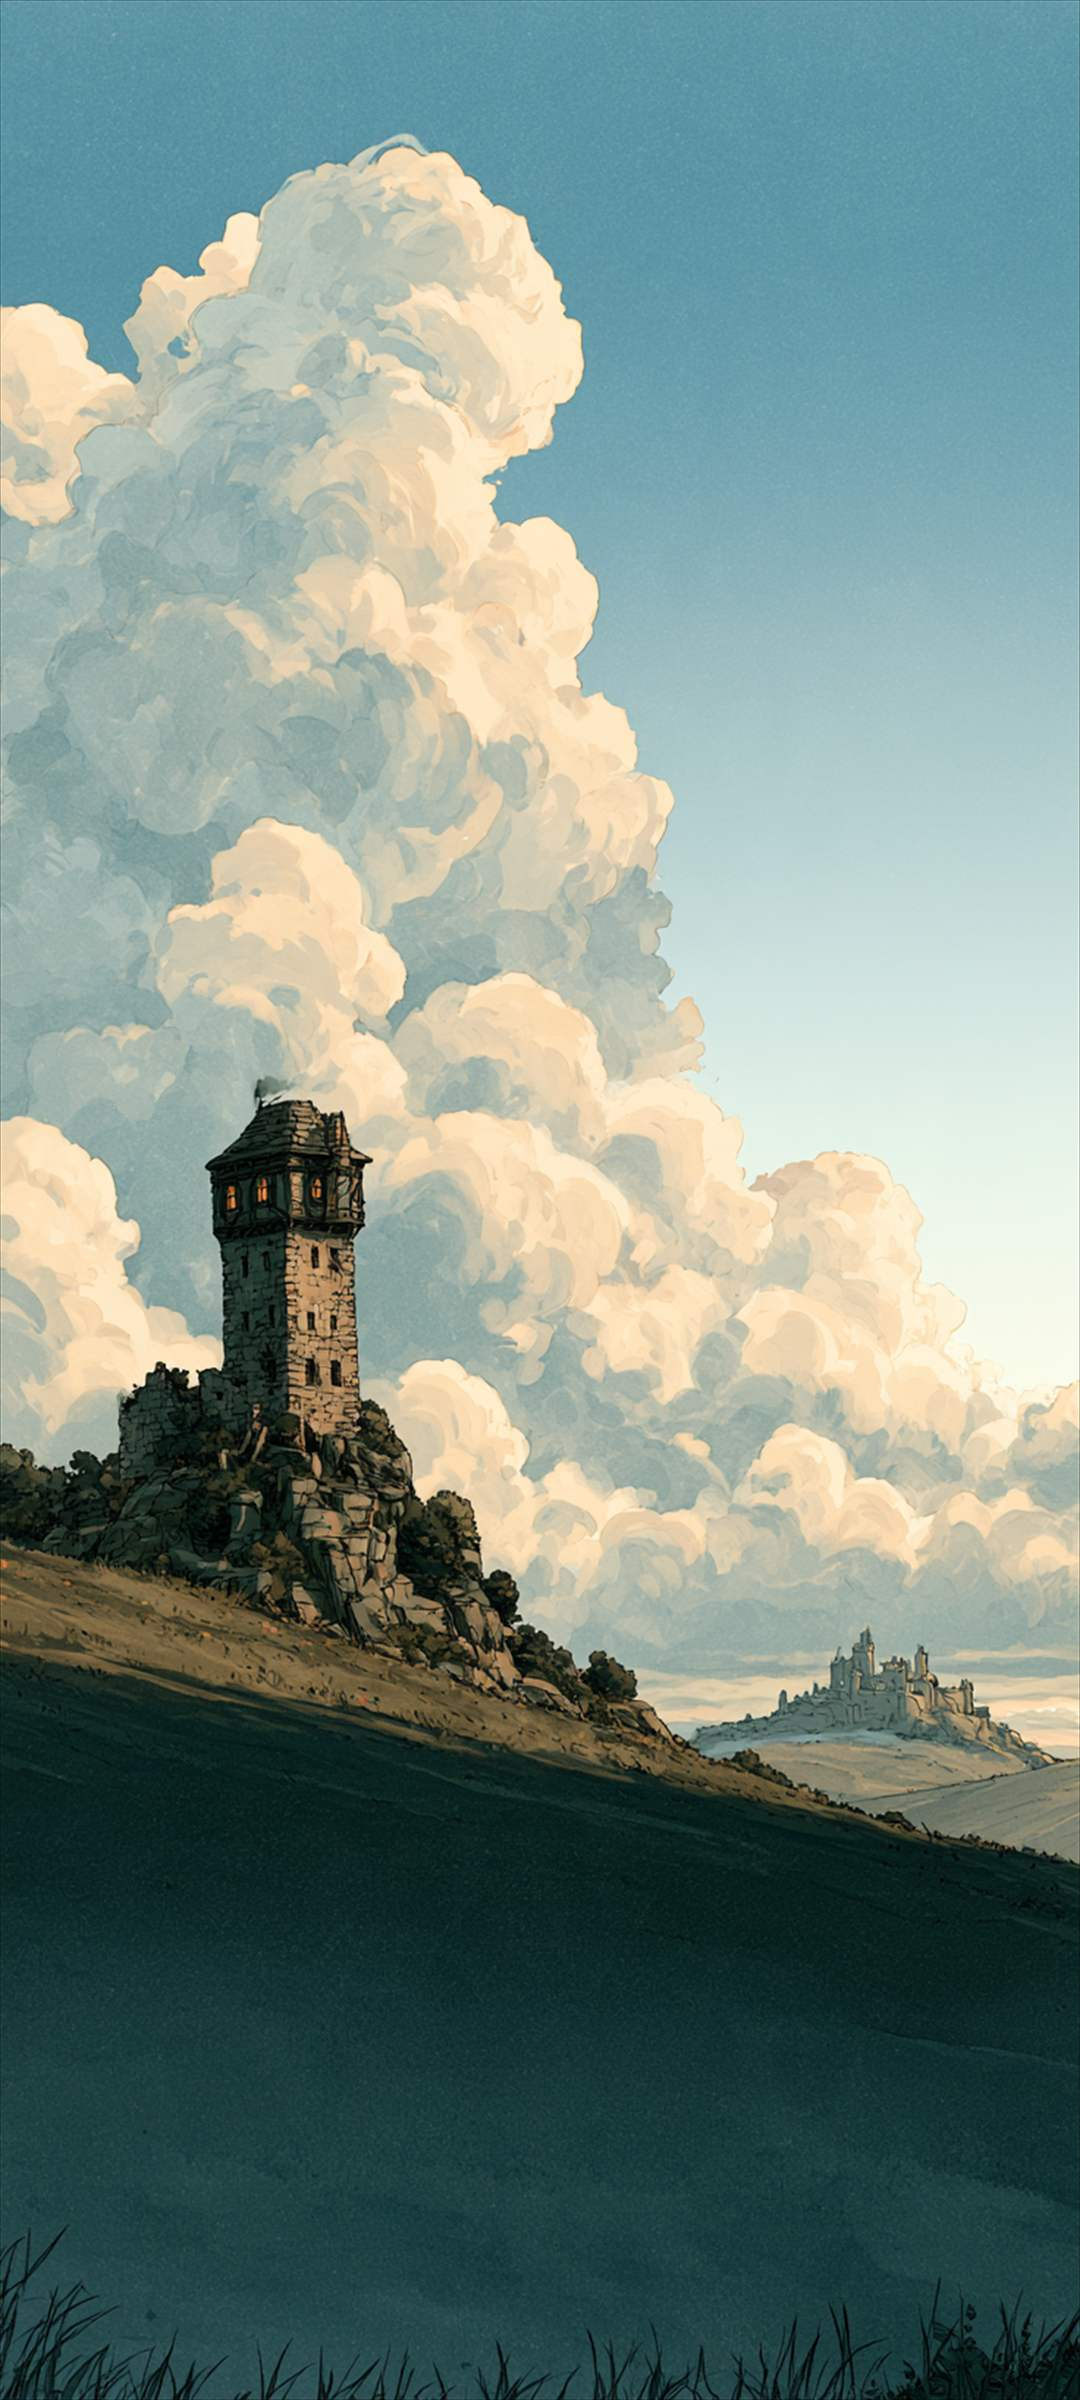
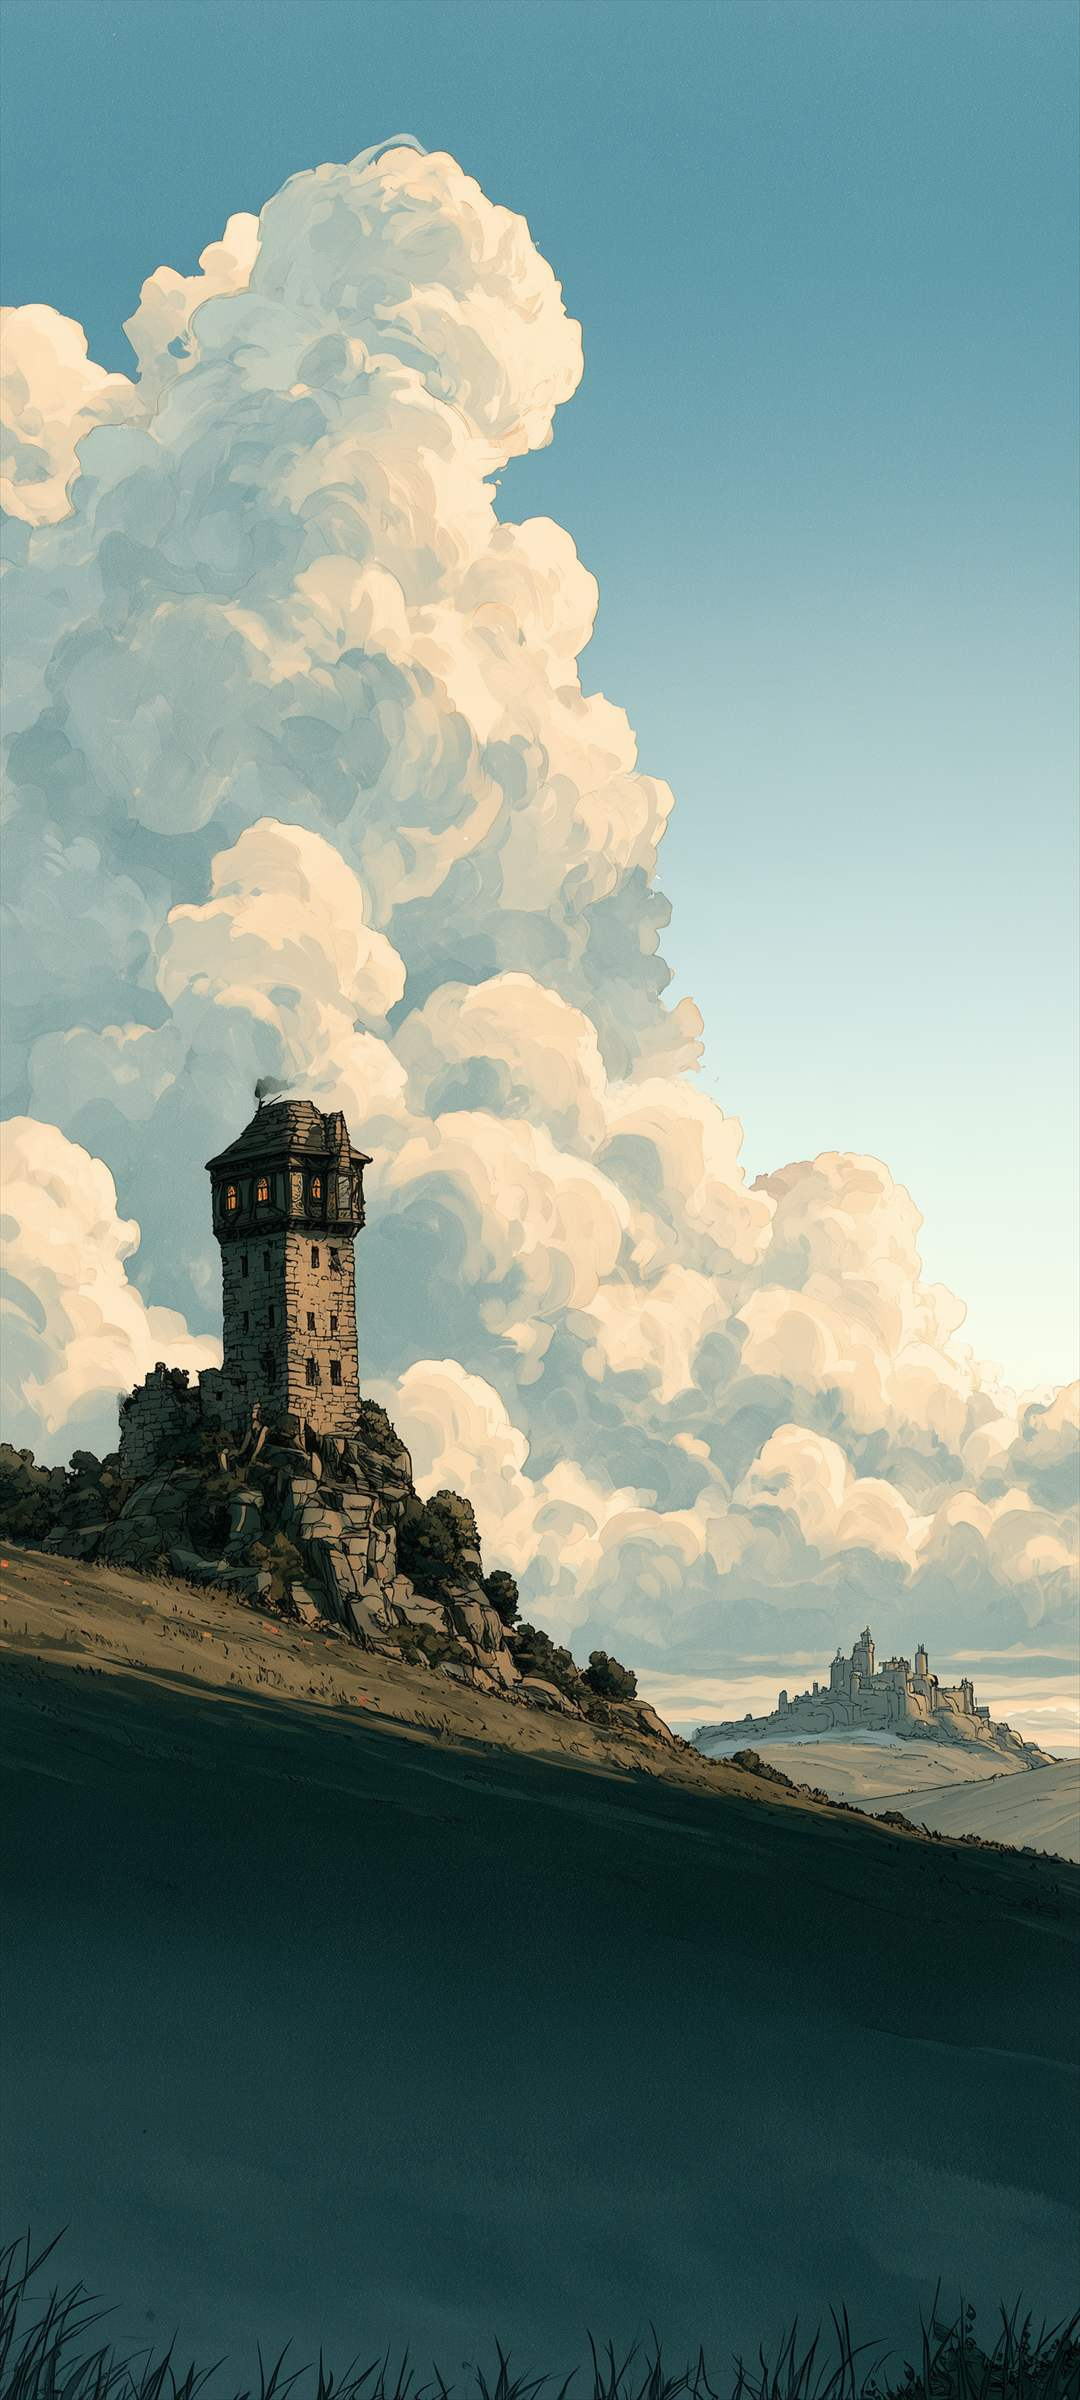
feat: upscaled day background, staged splash and skin assets; UI-008 prompt fix; WIP

diff --git a/icons-and-imagery/art-queue.md b/icons-and-imagery/art-queue.md
@@ -153,7 +153,7 @@ Shared negative prompt for these jobs is in [UI-KIT-BRIEF.md](UI-KIT-BRIEF.md#sh
 
 - [ ] **UI-008: Wide blank buttons, 3 styles by 3 states** (UI-KIT-BRIEF.md, UI-008). Target: 1440x480 `ui-wide-button-sheet.png`, transparent, `--ar 3:1`; 3x3 grid of 480x160 cells, each button 480x120 centred; 9-slice caps 40 px left and right, 30 px top and bottom. Credit cost: UNVERIFIED.
   > #UI-008 wide blank buttons, 3 styles by 3 states
-  > Hand-painted pastoral fantasy set of wide blank buttons in watercolor and gouache on a fixed 3 by 3 grid: each row holds three wide rounded-rectangle buttons with clean expressive ink outlines, soft wash fills and a thin Aged Bronze bevel edge. Columns left to right: primary in Ember orange, secondary in Aged Bronze wash with slate, danger in muted Rust. Rows top to bottom: normal, pressed (slightly darker, inset bevel), disabled (desaturated, flat, pale vellum). Each button has a flat, even, empty centre, with tiny hawthorn berry studs at the four corners only. Even spacing, symmetric, transparent background around each button. Original design. --ar 3:1 --no text, letters, words, logo, watermark, signature, figures, people, faces, flame, dragon scales, glow, gloss, shadows, photorealistic, 3d render, lens flare
+  > Hand-painted pastoral fantasy sheet of exactly nine wide blank rounded-rectangle buttons, in watercolor and gouache with clean ink outlines, soft wash fills and a thin Aged Bronze bevel edge, laid out in exactly three rows and three columns with even gaps on a plain background. Row 1, normal: Ember orange, Aged Bronze with slate wash, muted Rust. Row 2, pressed: the same three colours slightly darker with an inset bevel. Row 3, disabled: the same three shapes in desaturated flat pale vellum. All nine buttons are identical in size and shape, each with a flat, even, empty centre and tiny hawthorn berry studs at the four corners only. Symmetric, straight-on. Original design. --ar 3:1 --no text, letters, words, logo, watermark, signature, figures, people, faces, flame, dragon scales, glow, gloss, shadows, six buttons, two rows, photorealistic, 3d render, lens flare
 
 - [ ] **UI-009: Splash lantern, 8-frame flicker sheet** (UI-KIT-BRIEF.md, UI-009). Target: 2048x256 `ui-splash-lantern-sheet.png`, transparent, `--ar 8:1`; eight 256x256 frames, left to right; loops frame 8 to frame 1. Credit cost: UNVERIFIED.
   > #UI-009 splash lantern, 8-frame flicker sheet

diff --git a/icons-and-imagery/UI-KIT-BRIEF.md b/icons-and-imagery/UI-KIT-BRIEF.md
@@ -138,7 +138,7 @@ Blank ornate horizontal nameplate banner in hand-painted watercolor and gouache:
 
 ```text
 #UI-008 wide blank buttons, 3 styles by 3 states
-Hand-painted pastoral fantasy set of wide blank buttons in watercolor and gouache on a fixed 3 by 3 grid: each row holds three wide rounded-rectangle buttons with clean expressive ink outlines, soft wash fills and a thin Aged Bronze bevel edge. Columns left to right: primary in Ember orange, secondary in Aged Bronze wash with slate, danger in muted Rust. Rows top to bottom: normal, pressed (slightly darker, inset bevel), disabled (desaturated, flat, pale vellum). Each button has a flat, even, empty centre, with tiny hawthorn berry studs at the four corners only. Even spacing, symmetric, transparent background around each button. Original design. --ar 3:1 --no text, letters, words, logo, watermark, signature, figures, people, faces, flame, dragon scales, glow, gloss, shadows, photorealistic, 3d render, lens flare
+Hand-painted pastoral fantasy sheet of exactly nine wide blank rounded-rectangle buttons, in watercolor and gouache with clean ink outlines, soft wash fills and a thin Aged Bronze bevel edge, laid out in exactly three rows and three columns with even gaps on a plain background. Row 1, normal: Ember orange, Aged Bronze with slate wash, muted Rust. Row 2, pressed: the same three colours slightly darker with an inset bevel. Row 3, disabled: the same three shapes in desaturated flat pale vellum. All nine buttons are identical in size and shape, each with a flat, even, empty centre and tiny hawthorn berry studs at the four corners only. Symmetric, straight-on. Original design. --ar 3:1 --no text, letters, words, logo, watermark, signature, figures, people, faces, flame, dragon scales, glow, gloss, shadows, six buttons, two rows, photorealistic, 3d render, lens flare
 ```
 
 ### UI-009: Splash lantern, 8-frame flicker sheet

diff --git a/icons-and-imagery/prompts-copy-paste.md b/icons-and-imagery/prompts-copy-paste.md
@@ -387,7 +387,7 @@ Target: 1440x480 `ui-wide-button-sheet.png`, transparent, `--ar 3:1`; 3x3 grid o
 
 ```text
 #UI-008 wide blank buttons, 3 styles by 3 states
-Hand-painted pastoral fantasy set of wide blank buttons in watercolor and gouache on a fixed 3 by 3 grid: each row holds three wide rounded-rectangle buttons with clean expressive ink outlines, soft wash fills and a thin Aged Bronze bevel edge. Columns left to right: primary in Ember orange, secondary in Aged Bronze wash with slate, danger in muted Rust. Rows top to bottom: normal, pressed (slightly darker, inset bevel), disabled (desaturated, flat, pale vellum). Each button has a flat, even, empty centre, with tiny hawthorn berry studs at the four corners only. Even spacing, symmetric, transparent background around each button. Original design. --ar 3:1 --no text, letters, words, logo, watermark, signature, figures, people, faces, flame, dragon scales, glow, gloss, shadows, photorealistic, 3d render, lens flare
+Hand-painted pastoral fantasy sheet of exactly nine wide blank rounded-rectangle buttons, in watercolor and gouache with clean ink outlines, soft wash fills and a thin Aged Bronze bevel edge, laid out in exactly three rows and three columns with even gaps on a plain background. Row 1, normal: Ember orange, Aged Bronze with slate wash, muted Rust. Row 2, pressed: the same three colours slightly darker with an inset bevel. Row 3, disabled: the same three shapes in desaturated flat pale vellum. All nine buttons are identical in size and shape, each with a flat, even, empty centre and tiny hawthorn berry studs at the four corners only. Symmetric, straight-on. Original design. --ar 3:1 --no text, letters, words, logo, watermark, signature, figures, people, faces, flame, dragon scales, glow, gloss, shadows, six buttons, two rows, photorealistic, 3d render, lens flare
 ```
 
 chars: 823

diff --git a/WIP.md b/WIP.md
@@ -137,3 +137,9 @@ Product-form correction (ADR-0005, Proposed; owner decision pending):
 - Day art: interim `bg-day.jpg` for all screens in light mode; 11 original light sprites (`build-light-sprites.mjs`). Contrast tables in `icons-and-imagery/provenance.md`.
 - Tests run: `npm run typecheck` clean; `npx vitest run` 181 passed (10 files); `npx expo export --platform android` OK; x86_64 build installed on emulator and checked in light, dark, Auto-follows-system, forced Light/Dark; arm64-v8a installed on the owner's phone (not launched).
 - Open: owner to replace bg-day.jpg with a properly upscaled file; splash screen is still dark in light mode; day Characters shares the day painting.
+
+## Update: art batch filed; day background upscaled (2026-11-08)
+
+- Day background (THEME-D-BG, tower and clouds) replaced by the upscaled version (1080x2400 JPEG q65, 184 KB); splash backdrop (UI-010) staged (splash-backdrop.jpg, 310 KB). Also staged but not yet wired: bg-night-tower.jpg (THEME-N-BG), bg-activities.jpg (SKIN-003), bg-settings.jpg (SKIN-004), frame-hawthorn.png (SKIN-006 cutout, 9-slice corner 270 px). Candidates in originals (git-ignored): SKIN-007 panel, SKIN-008 plain divider, UI-007/a/b banners, UI-008 buttons (6 not 9; prompt rewritten with 'exactly nine'), UI-009 lantern flicker (10 frames), all with white or black backgrounds needing cutouts.
+- Naming: owner chose 'Hawthorn Journal' as working public name; ADR-0007 is Proposed; main risk is a possible 'HAWTHORN' Class 9 mark (Near Studios) UNVERIFIED; owner to search registries. App display name unchanged until confirmed.
+- Next rounds: (1) wire night-tower/activities/settings backgrounds, frame, divider; (2) title banner + splash animation (needs name); (3) panels and wide buttons; app icon (hawthorn sprig) pending owner art.
